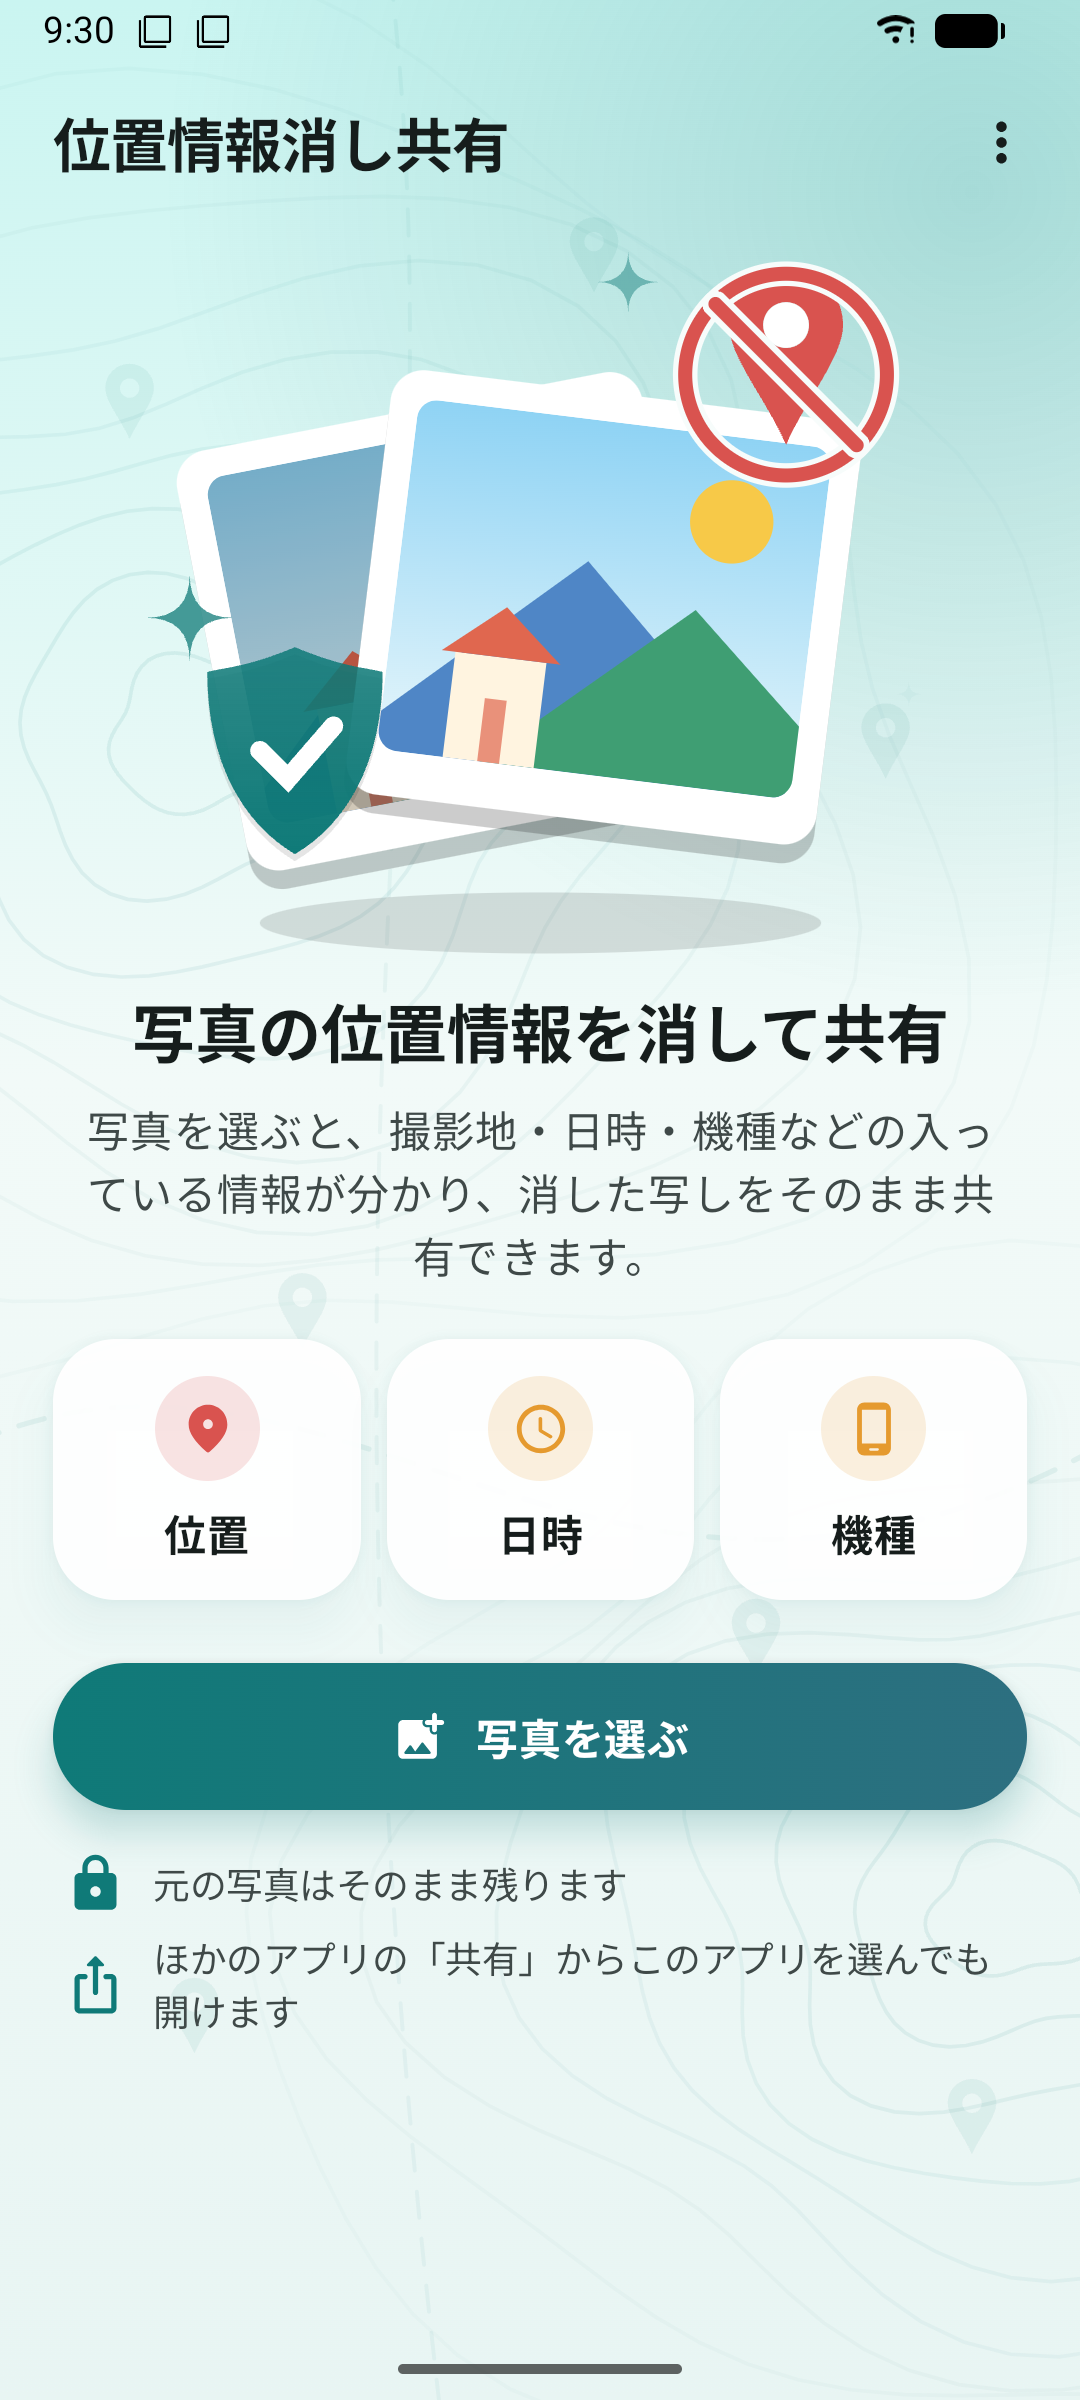
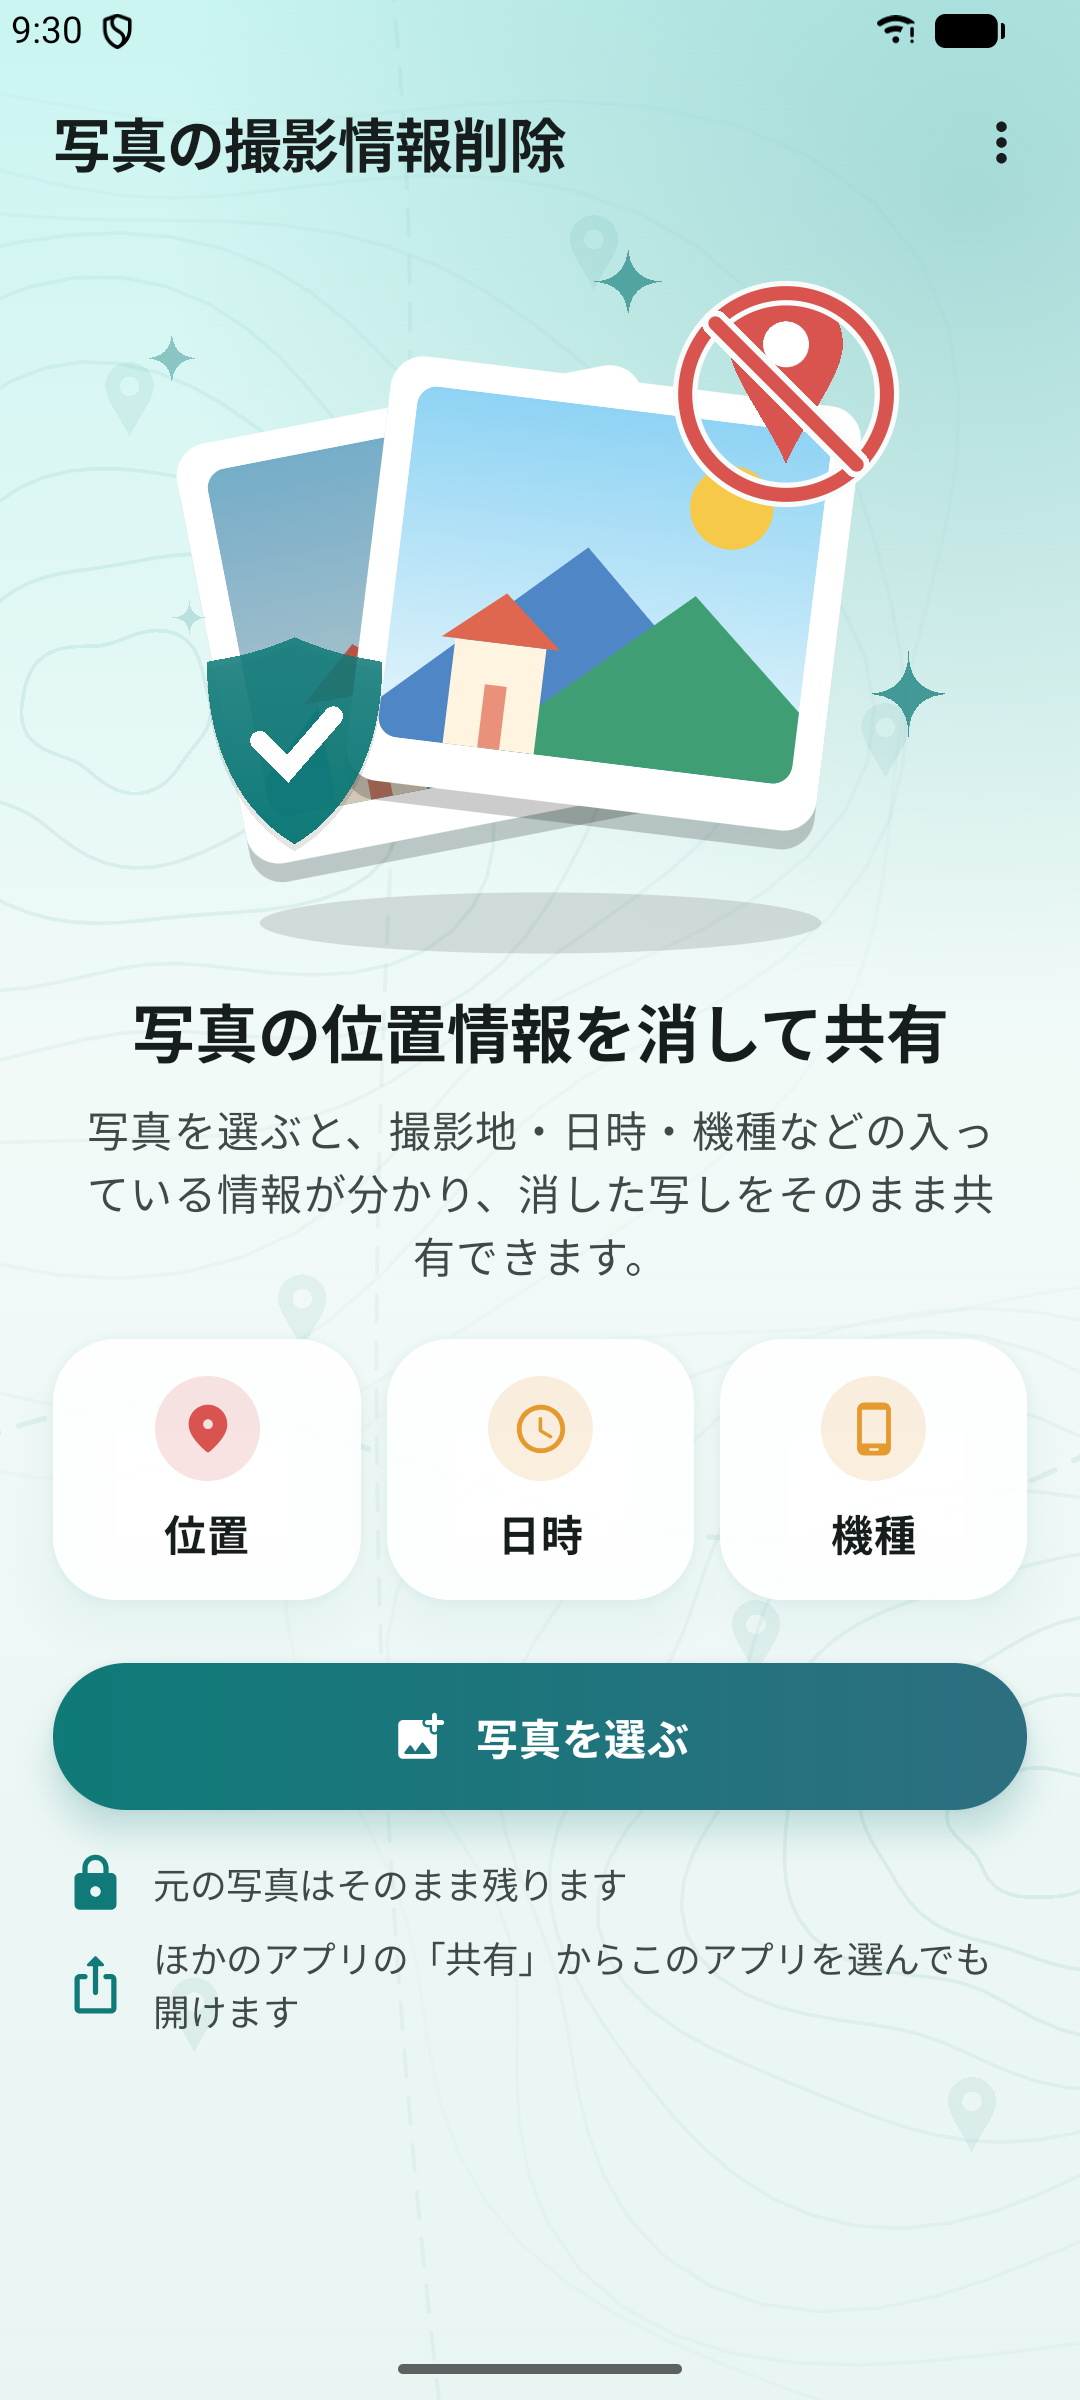
写真の撮影情報削除（旧：位置情報消し共有）の名前とアイコンを新しくする
- 紹介ページ・使い方のページ・プライバシーポリシー・apps.js の名前を「写真の撮影情報削除 / Photo Info Remover」にした
- アイコン、フィーチャー グラフィック（日本語・英語）、はじめの画面のスクリーンショット（日本語・英語）、使い方の画像 2 枚（写真を選ぶ・共有メニュー）を新しい名前とアイコンで作り直した
- URL（photo-privacy-share/）は変えていない（アプリのプライバシーポリシーのリンクがこの URL のため）

diff --git a/photo-privacy-share/manual.html b/photo-privacy-share/manual.html
@@ -3,8 +3,8 @@
 <head>
 <meta charset="utf-8">
 <meta name="viewport" content="width=device-width,initial-scale=1">
-<title>使い方 - 位置情報消し共有（Photo Privacy Share）</title>
-<meta name="description" content="位置情報消し共有（Photo Privacy Share）の使い方。写真を選ぶ、入っている情報を見る、消して共有・保存する、ほかのアプリの共有から開く。">
+<title>使い方 - 写真の撮影情報削除（Photo Info Remover）</title>
+<meta name="description" content="写真の撮影情報削除（Photo Info Remover）の使い方。写真を選ぶ、入っている情報を見る、消して共有・保存する、ほかのアプリの共有から開く。">
 <link rel="icon" href="images/icon.png">
 <style>
 body{font-family:sans-serif;max-width:720px;margin:24px auto;padding:0 16px;line-height:1.7;color:#222}
@@ -27,9 +27,9 @@ figcaption{font-size:.88em;color:#444;margin-top:6px;line-height:1.55}
 </style>
 </head>
 <body>
-<p><a href="./">位置情報消し共有 の紹介ページへ戻る</a> ・ <a href="../">DNGG-studio のアプリ一覧</a></p>
-<h1>位置情報消し共有 の使い方</h1>
-<p>位置情報消し共有（Photo Privacy Share）は、写真に入っている撮影地・日時・機種などの情報を見せ、消した写しを作って共有するアプリです。元の写真は変わりません。</p>
+<p><a href="./">写真の撮影情報削除 の紹介ページへ戻る</a> ・ <a href="../">DNGG-studio のアプリ一覧</a></p>
+<h1>写真の撮影情報削除 の使い方</h1>
+<p>写真の撮影情報削除（Photo Info Remover）は、写真に入っている撮影地・日時・機種などの情報を見せ、消した写しを作って共有するアプリです。元の写真は変わりません。</p>
 <p>画像の<span class="n">1</span>のような赤い番号は、押すところと、説明の番号です。</p>
 <p class="note">この説明は バージョン 0.1.0（お試し版）の画面に合わせています（2026年11月26日）。画面はこれから変わることがあります。画像の写真はすべて見本です。</p>
 
@@ -97,7 +97,7 @@ figcaption{font-size:.88em;color:#444;margin-top:6px;line-height:1.55}
 
 <h2 id="from-other">6. ほかのアプリの「共有」から開く</h2>
 <div class="figs">
-<figure><img src="images/manual/received.jpg" width="540" height="1200" loading="lazy" alt="ほかのアプリから受け取ったときの画面"><figcaption>写真のアプリなどで「共有」→「位置情報消し共有」を選ぶと、<span class="n">1</span>「ほかのアプリから受け取りました」と出て、同じ画面が開きます</figcaption></figure>
+<figure><img src="images/manual/received.jpg" width="540" height="1200" loading="lazy" alt="ほかのアプリから受け取ったときの画面"><figcaption>写真のアプリなどで「共有」→「写真の撮影情報削除」を選ぶと、<span class="n">1</span>「ほかのアプリから受け取りました」と出て、同じ画面が開きます</figcaption></figure>
 </div>
 <p>写真のアプリで写真を見ているときに、そのまま情報を消して送れます。複数枚まとめて共有しても受け取れます。</p>
 

diff --git a/photo-privacy-share/privacy.html b/photo-privacy-share/privacy.html
@@ -3,14 +3,14 @@
 <head>
 <meta charset="utf-8">
 <meta name="viewport" content="width=device-width,initial-scale=1">
-<title>位置情報消し共有 プライバシーポリシー / Photo Privacy Share Privacy Policy</title>
+<title>写真の撮影情報削除 プライバシーポリシー / Photo Info Remover Privacy Policy</title>
 <style>body{font-family:sans-serif;max-width:720px;margin:24px auto;padding:0 16px;line-height:1.7;color:#222}h1{font-size:1.4em}h2{font-size:1.1em;margin-top:2em}</style>
 </head>
 <body>
-<p><a href="./">位置情報消し共有</a></p>
-<h1>位置情報消し共有 プライバシーポリシー</h1>
+<p><a href="./">写真の撮影情報削除</a></p>
+<h1>写真の撮影情報削除 プライバシーポリシー</h1>
 <p>制定日：2026年11月26日</p>
-<p>DNGG-studio（以下「運営者」）は、Android アプリ「位置情報消し共有」（以下「本アプリ」）での利用者の情報の扱いを、次のとおり定めます。本アプリは、利用者が選んだ写真に入っている撮影地・日時・機種などの情報を表示し、それらを消した写しを作るアプリです。<strong>運営者はサーバーを持たず、利用者の情報を運営者のもとに集めることはありません。</strong></p>
+<p>DNGG-studio（以下「運営者」）は、Android アプリ「写真の撮影情報削除」（以下「本アプリ」）での利用者の情報の扱いを、次のとおり定めます。本アプリは、利用者が選んだ写真に入っている撮影地・日時・機種などの情報を表示し、それらを消した写しを作るアプリです。<strong>運営者はサーバーを持たず、利用者の情報を運営者のもとに集めることはありません。</strong></p>
 
 <h2>1. 扱う情報</h2>
 <ul>
@@ -43,9 +43,9 @@
 
 <hr>
 <div lang="en">
-<h1>Photo Privacy Share Privacy Policy</h1>
+<h1>Photo Info Remover Privacy Policy</h1>
 <p>Effective date: November 26, 2026</p>
-<p>DNGG-studio ("we") describes here how the Android app "Photo Privacy Share" ("the app") handles your information. The app shows the location, date, device and other information inside the photos you choose, and creates copies with that information removed. <strong>We have no servers and never collect your information.</strong></p>
+<p>DNGG-studio ("we") describes here how the Android app "Photo Info Remover" ("the app") handles your information. The app shows the location, date, device and other information inside the photos you choose, and creates copies with that information removed. <strong>We have no servers and never collect your information.</strong></p>
 
 <h2>1. Information the app handles</h2>
 <ul>

diff --git a/photo-privacy-share/index.html b/photo-privacy-share/index.html
@@ -3,15 +3,15 @@
 <head>
 <meta charset="utf-8">
 <meta name="viewport" content="width=device-width,initial-scale=1">
-<title>位置情報消し共有（Photo Privacy Share）</title>
+<title>写真の撮影情報削除（Photo Info Remover）</title>
 <meta name="description" content="写真に入った撮影地・日時・機種などの情報を確かめて、消した写しをそのまま共有する Android アプリ。写真の権限なし・通信なし。">
 <link rel="icon" href="images/icon.png">
 <style>body{font-family:sans-serif;max-width:720px;margin:24px auto;padding:0 16px;line-height:1.7;color:#222}h1{font-size:1.4em}h2{font-size:1.1em;margin-top:2em}img{max-width:100%;height:auto}.feature{display:block;border-radius:8px}.shots{display:grid;grid-template-columns:repeat(auto-fill,minmax(150px,1fr));gap:12px;margin:1em 0}.shots img{display:block;border-radius:8px}.note{font-size:.9em;color:#555}</style>
 </head>
 <body>
 <p><a href="../">DNGG-studio のアプリ一覧</a></p>
-<img class="feature" src="images/featureGraphic.png" width="1024" height="500" alt="位置情報消し共有">
-<h1>位置情報消し共有（Photo Privacy Share）</h1>
+<img class="feature" src="images/featureGraphic.png" width="1024" height="500" alt="写真の撮影情報削除">
+<h1>写真の撮影情報削除（Photo Info Remover）</h1>
 <p>写真を選ぶと、撮影地・日時・機種などの情報が入っているかが分かり、消した写しをそのまま共有できる Android アプリです。</p>
 <p>お試し版です。Google Play で配信準備中です。</p>
 
@@ -50,8 +50,8 @@
 
 <hr>
 <div lang="en">
-<img class="feature" src="images/en/featureGraphic.png" width="1024" height="500" loading="lazy" alt="Photo Privacy Share">
-<h1>Photo Privacy Share (位置情報消し共有)</h1>
+<img class="feature" src="images/en/featureGraphic.png" width="1024" height="500" loading="lazy" alt="Photo Info Remover">
+<h1>Photo Info Remover (写真の撮影情報削除)</h1>
 <p>An Android app that shows the location, date and device hidden in your photos, and shares clean copies.</p>
 <p>Early preview. Coming soon to Google Play.</p>
 

diff --git a/apps.js b/apps.js
@@ -54,7 +54,7 @@
     {
       id: 'photo-privacy-share', category: 'tool', icon: true, manual: true,
       shots: [['1', 'はじめの画面', 'Home'], ['2', '位置情報のある写真に赤い札', 'Red badges on photos with location'], ['3', '入っている情報を危ない順に', 'Hidden info, most sensitive first'], ['4', '消した項目にチェック', 'Checks for removed info']], enShots: true,
-      name: { ja: '位置情報消し共有', en: 'Photo Privacy Share' },
+      name: { ja: '写真の撮影情報削除', en: 'Photo Info Remover' },
       desc: {
         ja: '写真の撮影地・日時・機種を確かめて、消した写しをそのまま共有。写真の権限なし。',
         en: 'See the location, date and device hidden in photos, and share clean copies.'
